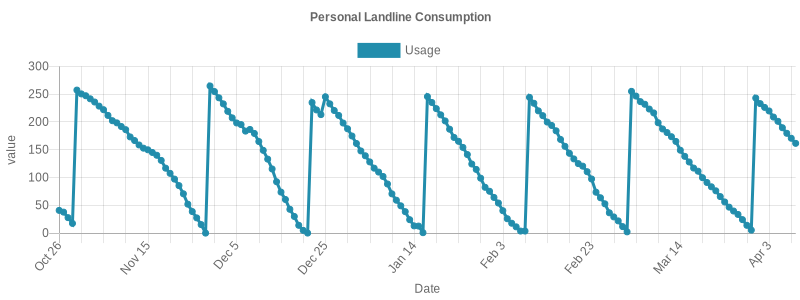
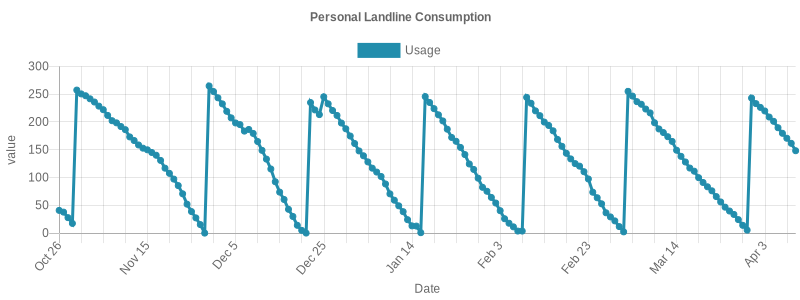
update logs

diff --git a/quota-logs/README.md b/quota-logs/README.md
@@ -165,3 +165,4 @@
 ## Sun Apr 07 2024 00:35:36 GMT+0200|179.62/250
 ## Mon Apr 08 2024 00:36:42 GMT+0200|170.69/250
 ## Tue Apr 09 2024 00:35:02 GMT+0200|161.55/250
+## Wed Apr 10 2024 00:35:45 GMT+0200|148.23/250
